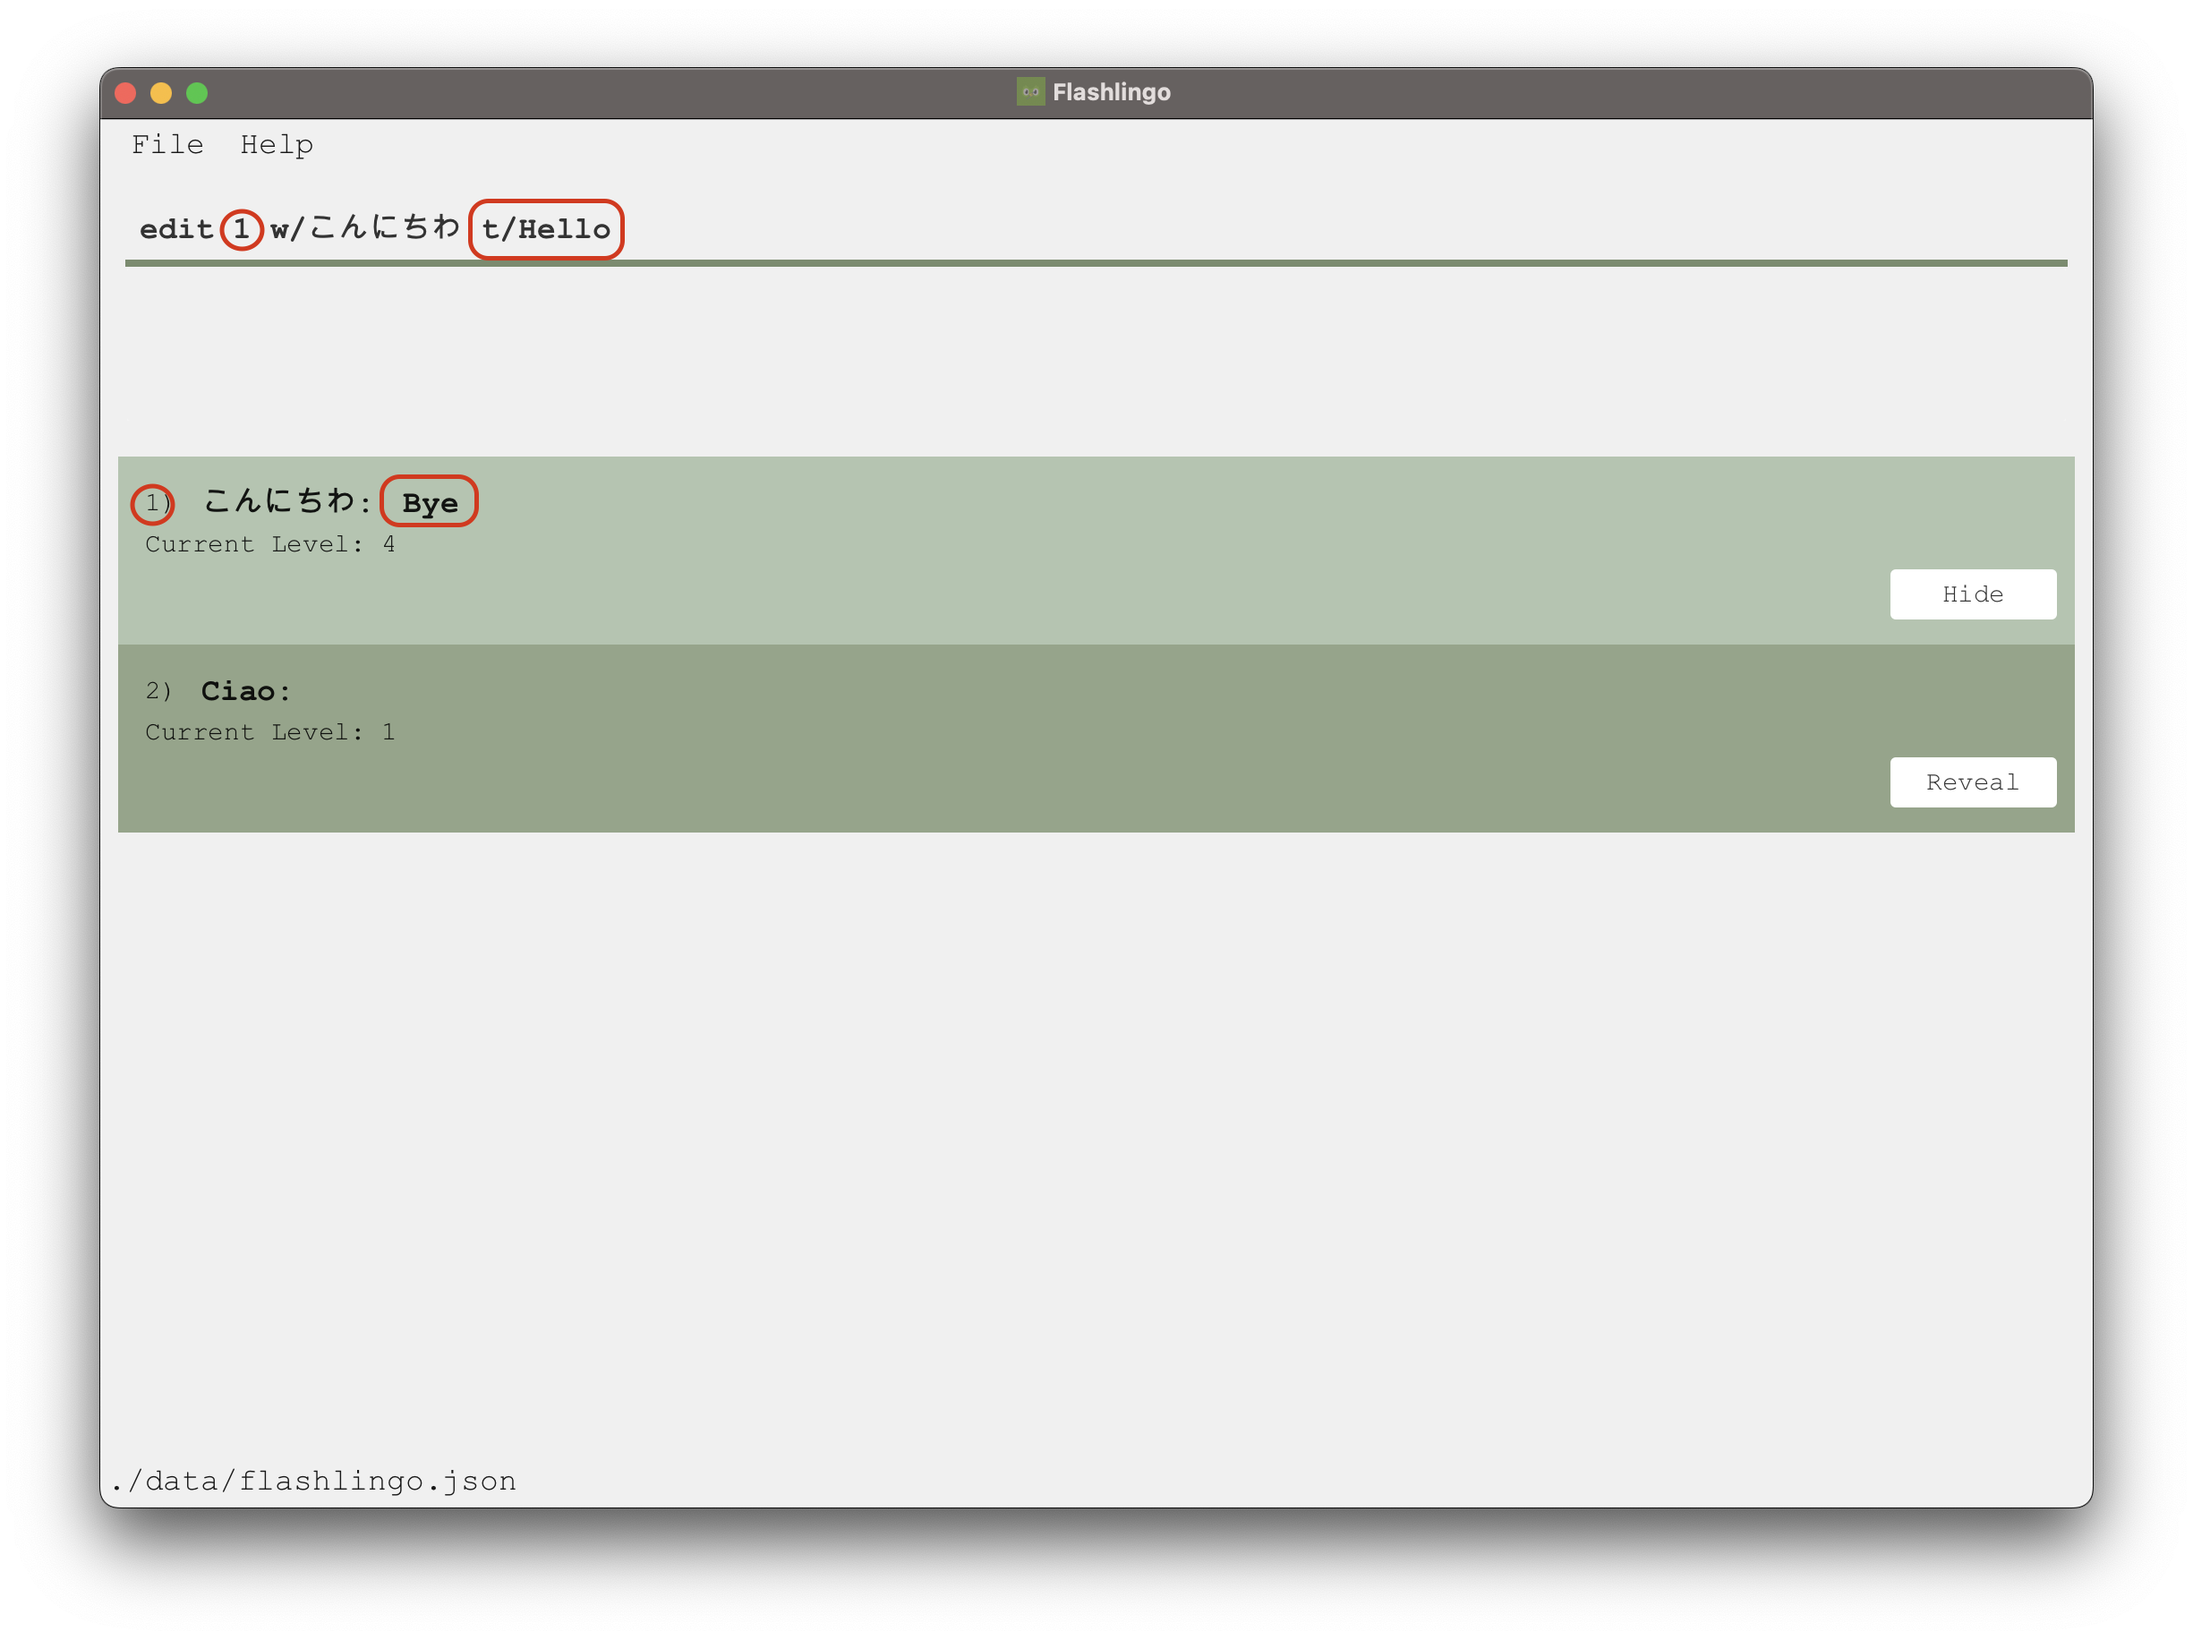
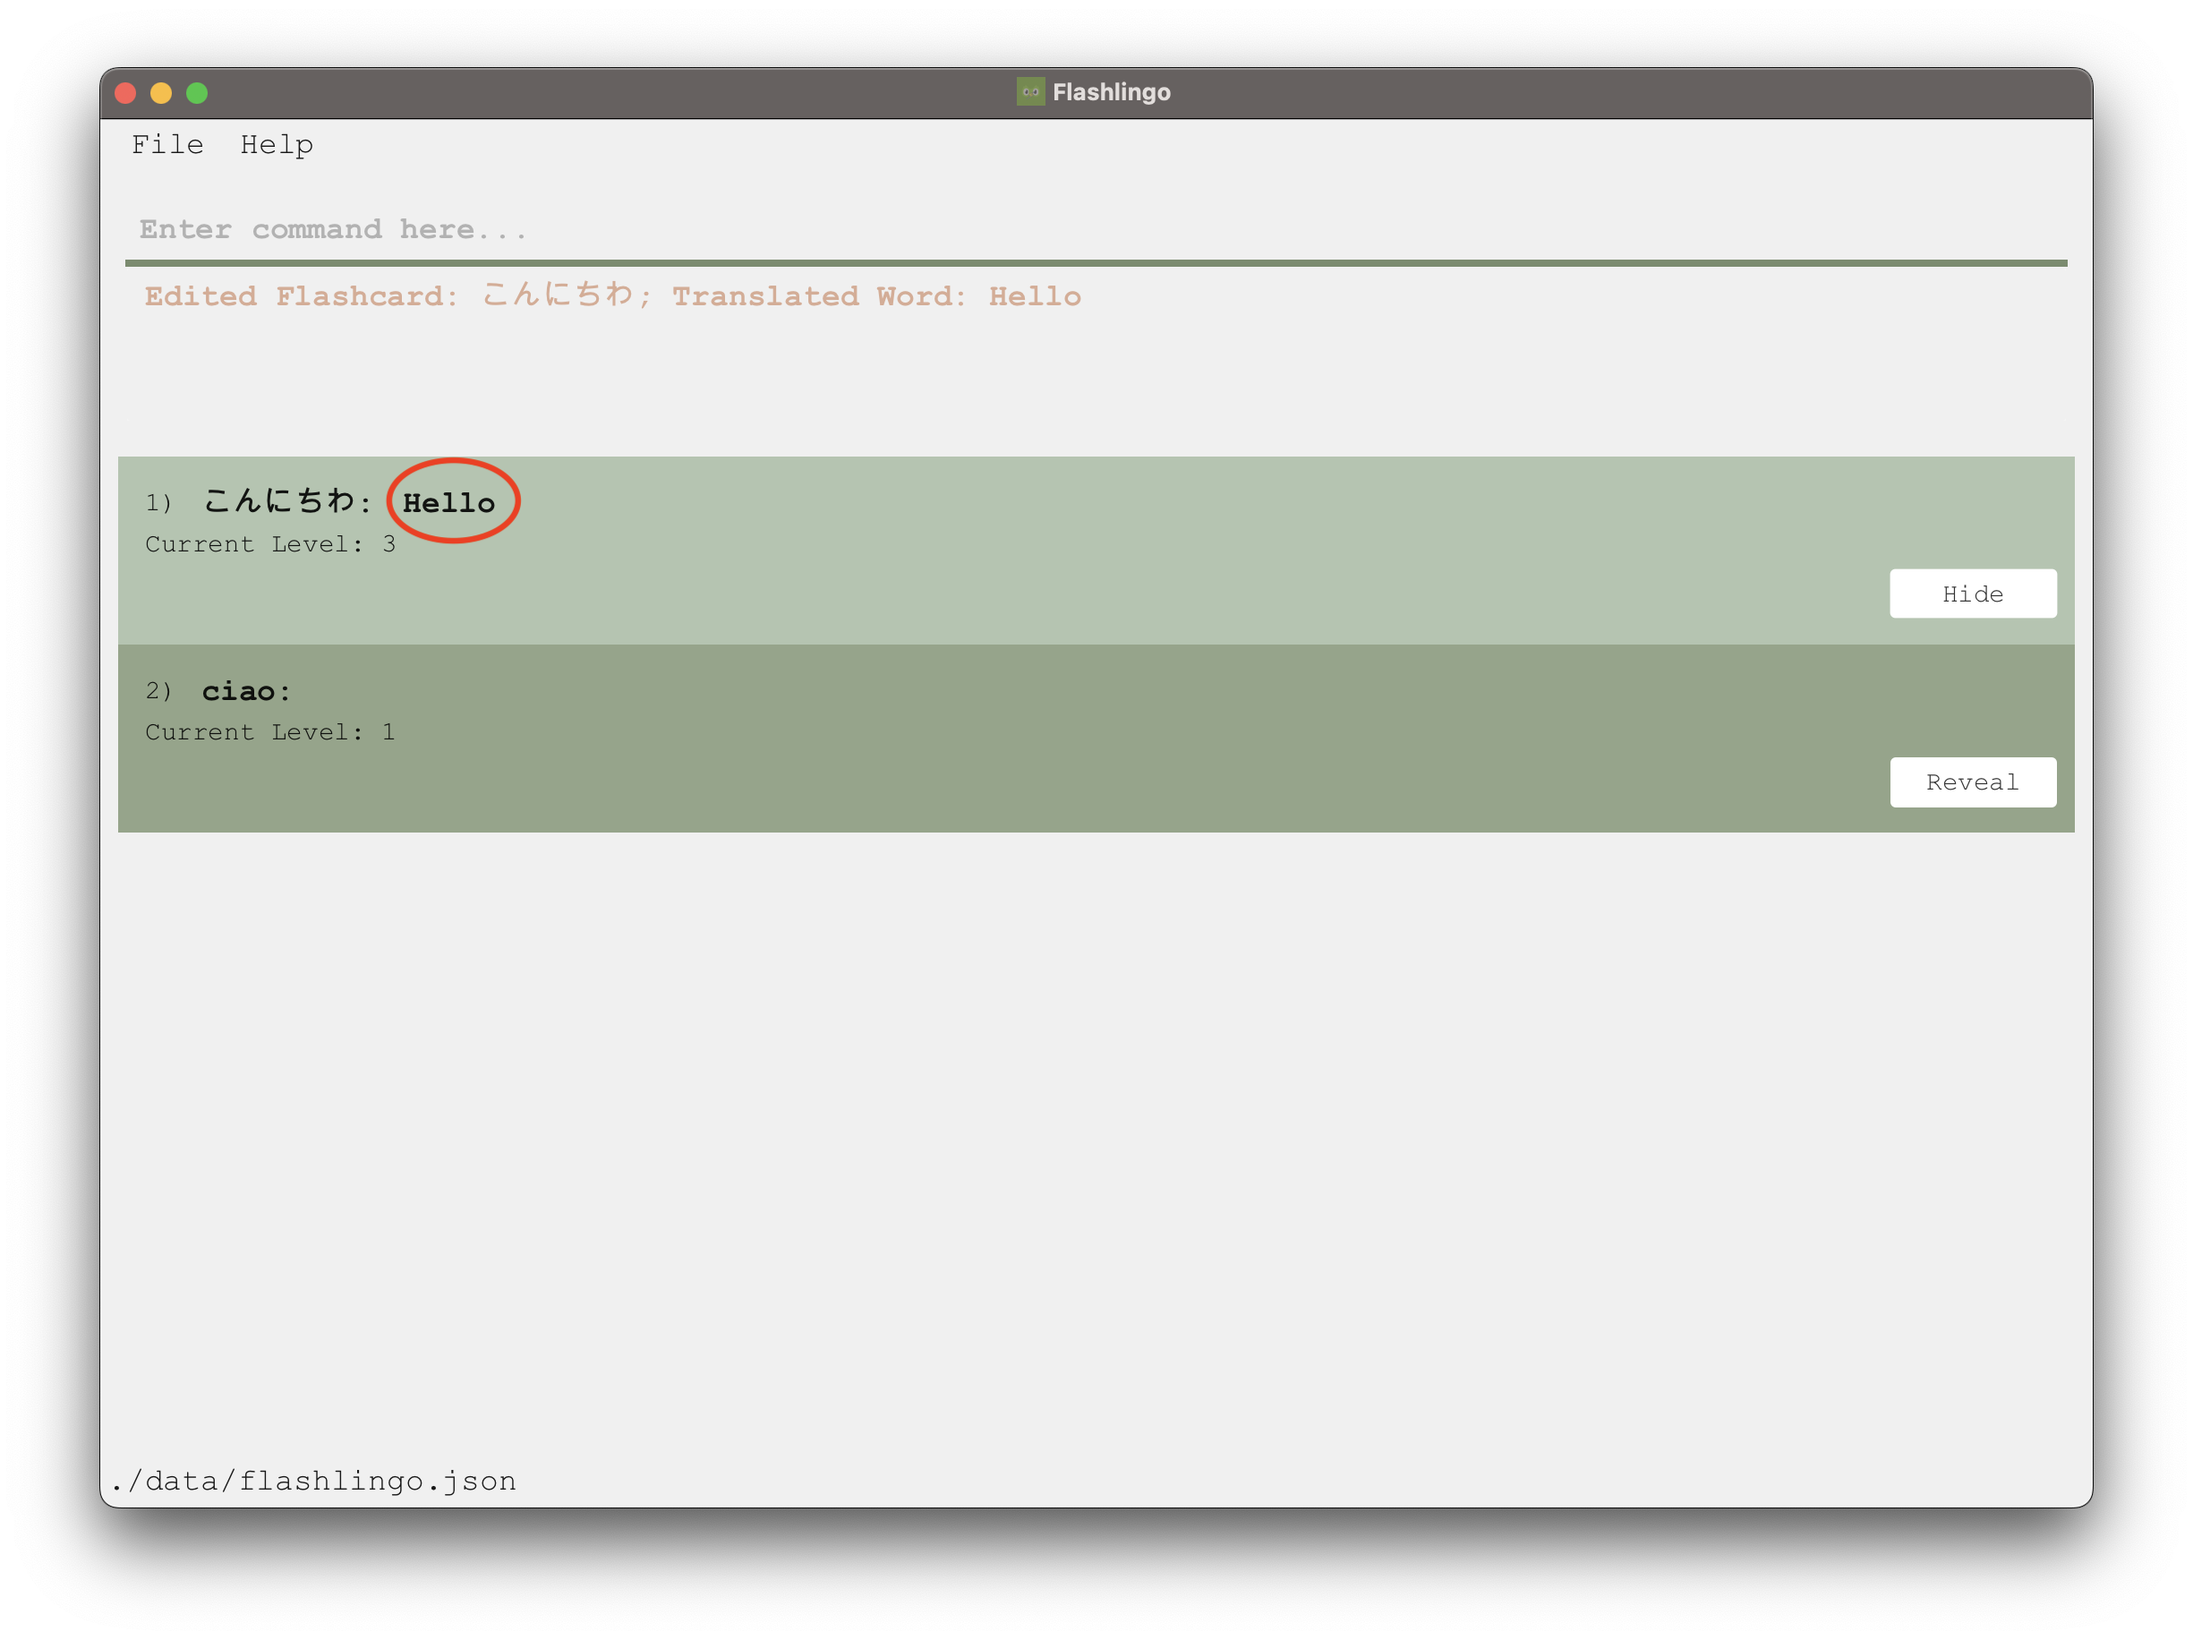
Update the Edit command feature

Changed region(s): [[0.062, 0.1245, 0.2792, 0.1867], [0.3102, 0.1556, 0.4963, 0.1867], [0.1551, 0.28, 0.2482, 0.3422]]

diff --git a/docs/UserGuide.md b/docs/UserGuide.md
@@ -150,10 +150,10 @@ Before delete         |  After delete
 Edits the word and its translation at the given index.
 * Edits a wild flashcard.
 
-Format: `edit <INDEX> w/<WORD> t/<TRANSLATION>`
+Format: `edit <INDEX> [w/<WORD>] [t/<TRANSLATION>] [wl/<WORD_LANGUAGE>] [tl/<TRANSLATION_LANGUAGE>]`
 
 Examples:
-* `edit 1 w/こんにちわ t/Hello` edits the word and its translation at index 1
+* `edit 1 w/こんにちわ t/Hello` edits the translation at index 1
 
 Output:
 
@@ -163,6 +163,12 @@ Before edit         |  After edit
 
 **Note**
 * Users are not allowed to edit a flash card to an existing flash card
+* `<INDEX>` is the index of each flashcard in the `list`
+* Users change at **LEAST** one certain parameter by using certain prefix 
+  * Word: `w/WORD`
+  * Word Language: `wl/WORD_LANGUAGE`
+  * Translation: `t/TRANSLATION`
+  * Translation Language: `tl/TRANSLATION_LANGUAGE`
 > The error message: <br>
 > `This flashcard already exists in Flashlingo`
 
